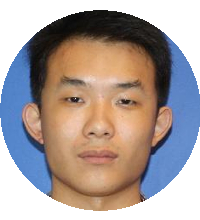
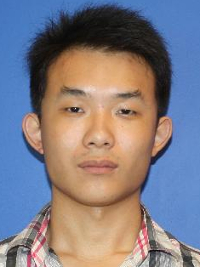
Cleaning up the head circle scripts

diff --git a/people.md b/people.md
@@ -17,7 +17,7 @@ title: "People"
 {% assign students = site.students | sort:'name' | sort_by_index: 'role', student_order %}
 
 {% tablerow member in students cols:4 %}
-  <img src="{{ member.photo | default: 'headshots/placeholder.png' }}" alt="{{ member.name }}" style="padding-right:0.75em">
+  <img src="{{ member.photo | replace: "headshots","headcircs" | default: 'headshots/placeholder.png' }}" alt="{{ member.name }}" style="padding-right:0.75em">
   <br>
   <div style="text-align:center;">
   {% if member.website %}
@@ -37,7 +37,7 @@ title: "People"
 {% assign faculty_order = 'Assistant Professor|Professor' | split: '|' %}
 {% assign faculty = site.faculty | sort:'name' | sort_by_index: 'role', faculty_order %}
 {% tablerow member in faculty cols:4 %}
-  <img src="{{ member.photo | default: 'headshots/placeholder.png' }}" alt="{{ member.name }}" style="padding-right:0.75em"><br>
+  <img src="{{ member.photo | replace: "headshots","headcircs" | default: 'headshots/placeholder.png' }}" alt="{{ member.name }}" style="padding-right:0.75em"><br>
   <div style="text-align:center;">
   {% if member.website %}
     <a href="{{ member.website }}">{{ member.name }}</a>
